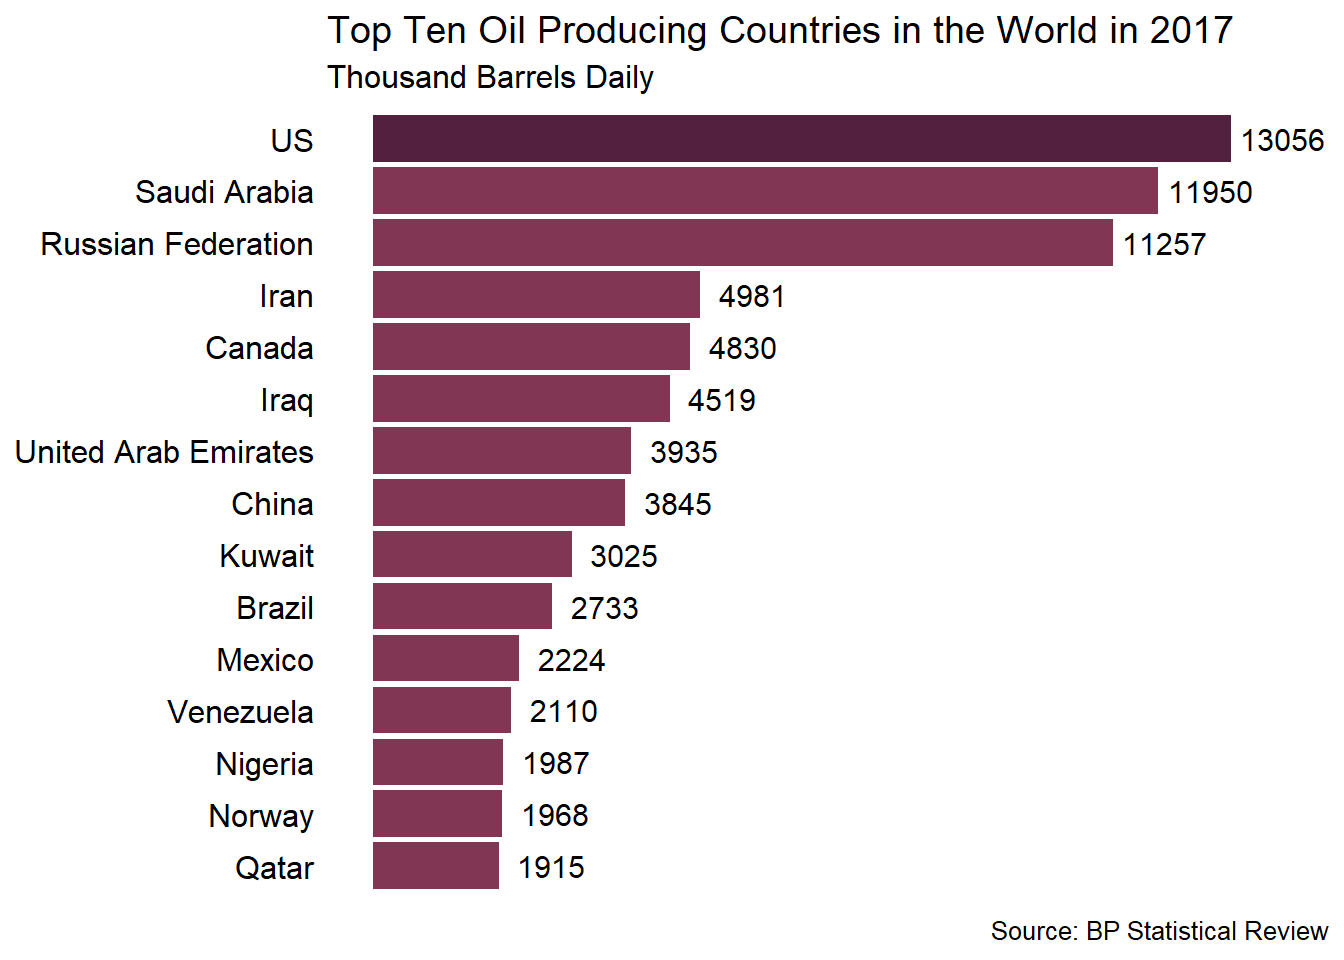
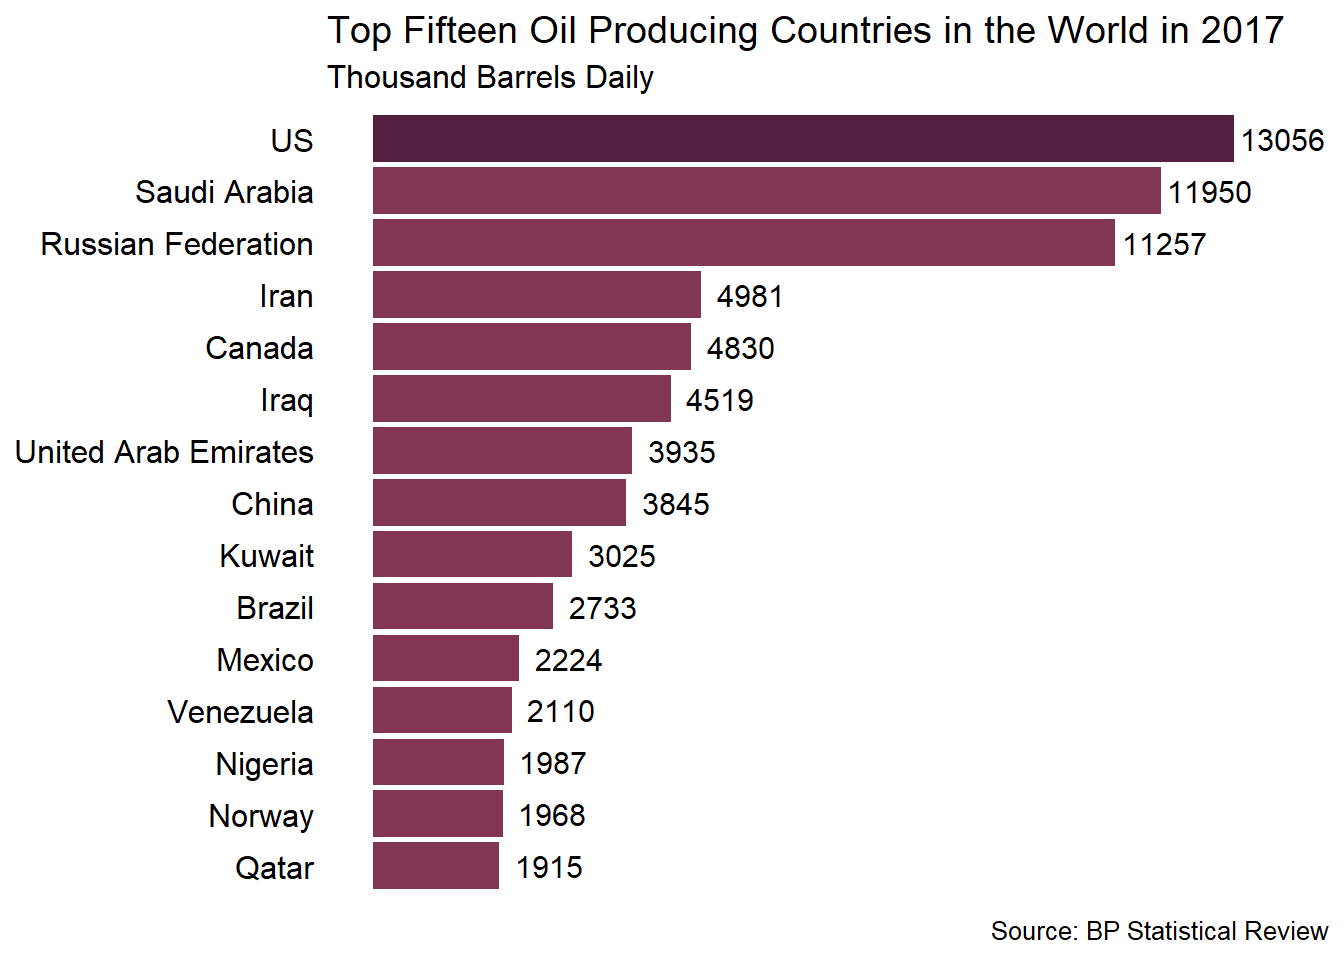
Initial Commit

diff --git a/content/post/2018-11-23-visualisations-of-oil-production.html b/content/post/2018-11-23-visualisations-of-oil-production.html
@@ -282,7 +282,7 @@ top_ten &lt;- bp_clean4 %&gt;%
 ggplot(top_ten, aes(x = reorder(Country, Production), y = Production)) + 
   geom_bar(stat = &quot;identity&quot;, aes(fill = highest)) + 
   scale_fill_manual(values = c(&quot;#813753&quot;,&quot;#54203F&quot;)) + coord_flip() +
-  geom_text(aes(y= Production, x = seq(15,1), label = paste0(round(Production),&quot;&quot;)), nudge_y = 800, color=&quot;black&quot;, size = 4) + 
+  geom_text(aes(y= Production, x = seq(15,1), label = paste0(round(Production),&quot;&quot;)), nudge_y = 750, color=&quot;black&quot;, size = 4) + 
   theme_minimal() +
   theme(axis.title.x = element_blank(),
         axis.title.y = element_blank(),
@@ -291,7 +291,7 @@ ggplot(top_ten, aes(x = reorder(Country, Production), y = Production)) +
         legend.position = &quot;None&quot;,
         panel.background = element_blank(),
         panel.grid = element_blank()) + 
-  labs(title = &quot;Top Ten Oil Producing Countries in the World in 2017&quot;, subtitle = &quot;Thousand Barrels Daily&quot;, 
+  labs(title = &quot;Top Fifteen Oil Producing Countries in the World in 2017&quot;, subtitle = &quot;Thousand Barrels Daily&quot;, 
       caption = &quot;Source: BP Statistical Review&quot;) + 
   theme(title = element_text(size = 12))</code></pre>
 <p><img src="/post/2018-11-23-visualisations-of-oil-production_files/figure-html/unnamed-chunk-12-1.png" width="672" /></p>

diff --git a/public/post/visualisations-of-oil-production/index.html b/public/post/visualisations-of-oil-production/index.html
@@ -353,7 +353,7 @@ top_ten &lt;- bp_clean4 %&gt;%
 ggplot(top_ten, aes(x = reorder(Country, Production), y = Production)) + 
   geom_bar(stat = &quot;identity&quot;, aes(fill = highest)) + 
   scale_fill_manual(values = c(&quot;#813753&quot;,&quot;#54203F&quot;)) + coord_flip() +
-  geom_text(aes(y= Production, x = seq(15,1), label = paste0(round(Production),&quot;&quot;)), nudge_y = 800, color=&quot;black&quot;, size = 4) + 
+  geom_text(aes(y= Production, x = seq(15,1), label = paste0(round(Production),&quot;&quot;)), nudge_y = 750, color=&quot;black&quot;, size = 4) + 
   theme_minimal() +
   theme(axis.title.x = element_blank(),
         axis.title.y = element_blank(),
@@ -362,7 +362,7 @@ ggplot(top_ten, aes(x = reorder(Country, Production), y = Production)) +
         legend.position = &quot;None&quot;,
         panel.background = element_blank(),
         panel.grid = element_blank()) + 
-  labs(title = &quot;Top Ten Oil Producing Countries in the World in 2017&quot;, subtitle = &quot;Thousand Barrels Daily&quot;, 
+  labs(title = &quot;Top Fifteen Oil Producing Countries in the World in 2017&quot;, subtitle = &quot;Thousand Barrels Daily&quot;, 
       caption = &quot;Source: BP Statistical Review&quot;) + 
   theme(title = element_text(size = 12))</code></pre>
 <p><img src="/post/2018-11-23-visualisations-of-oil-production_files/figure-html/unnamed-chunk-12-1.png" width="672" /></p>
